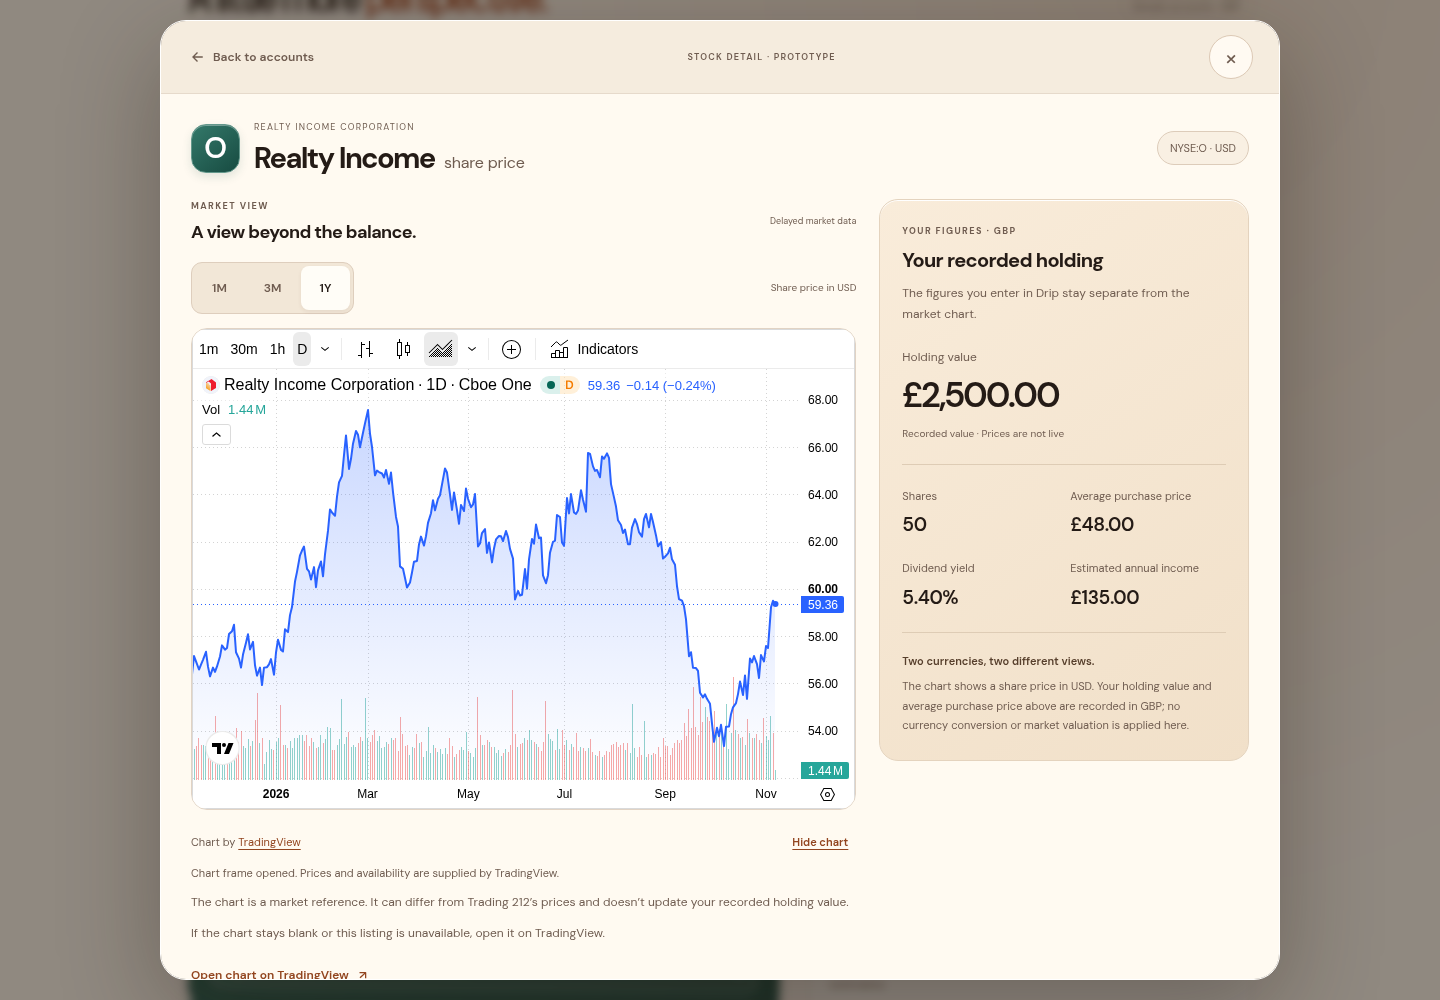
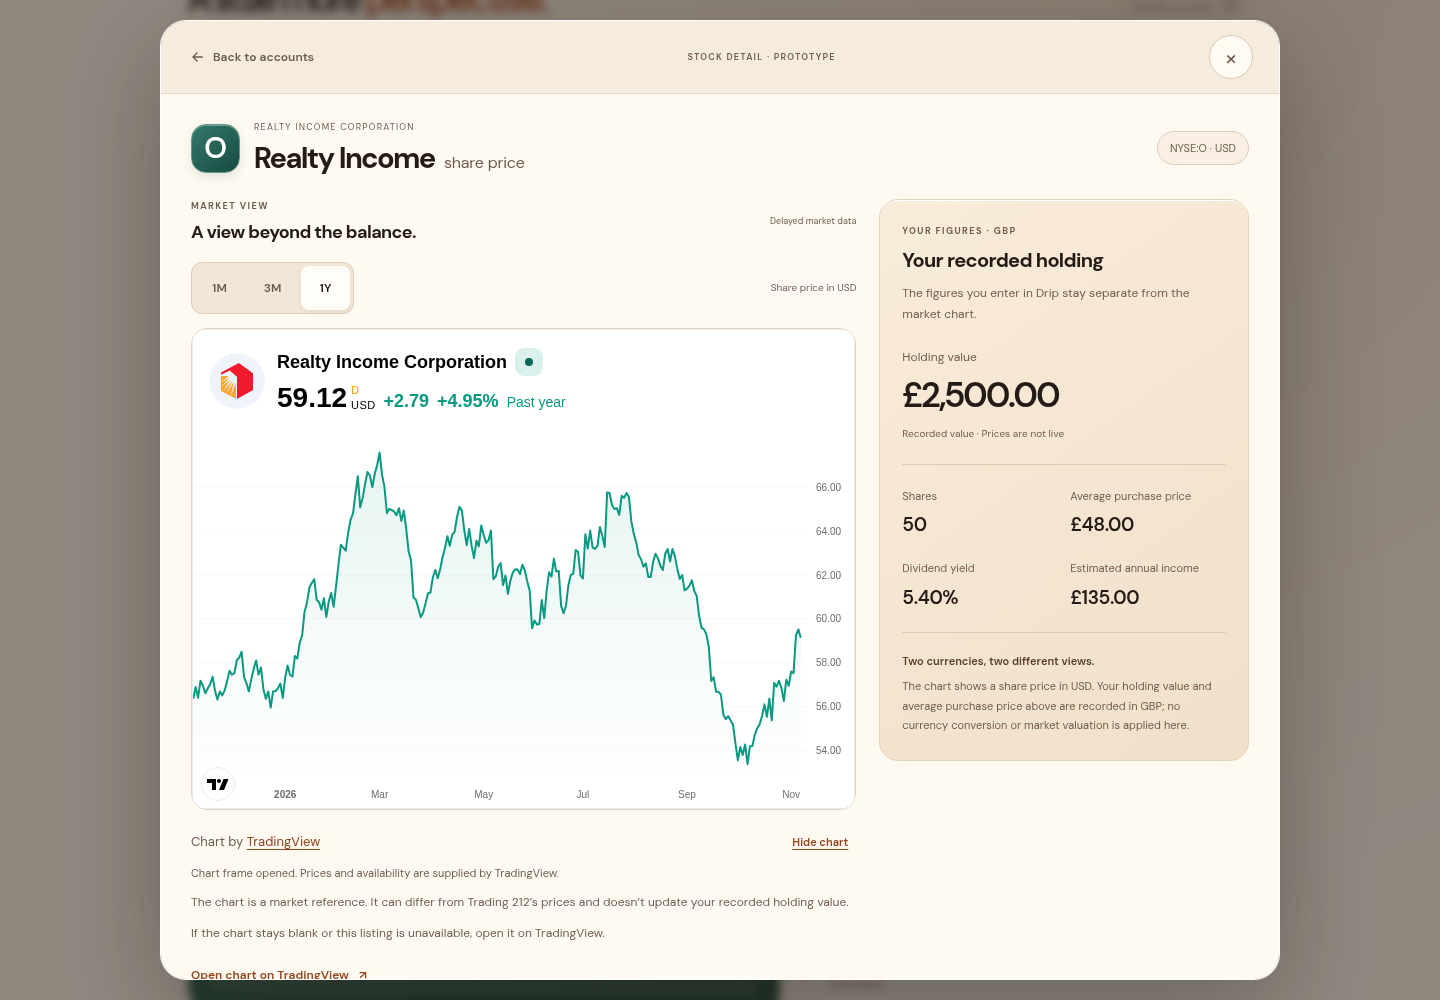
docs: record verified stock-widget repair and refreshed screenshots

Changed region(s): [[0.125, 0.341, 0.5938, 0.806], [0.125, 0.837, 0.2188, 0.868], [0.5625, 0.465, 0.5938, 0.496]]

diff --git a/docs/screenshots/first-impression/stock-prices.md b/docs/screenshots/first-impression/stock-prices.md
@@ -6,11 +6,11 @@ At `/prototype/welcome`, choose **Your accounts → Realty Income → Explore sh
 
 ## Choice and reasons
 
-**Use TradingView's free embedded chart for this shared Preview.** It needs no API key and is offered for website embedding. Keep its branding/attribution and link intact. This is a display integration, not a raw-price API or an automatic portfolio-valuation feed.
+**Use TradingView's free Symbol Overview for this shared Preview.** It provides a quote and price history without the advanced terminal's cross-tab coordination dependency. It needs no API key and is offered for website embedding. Keep its branding/attribution and link intact. This is a display integration, not a raw-price API or an automatic portfolio-valuation feed.
 
 | Option | Free allowance / capability | What it means for Drip | Primary source |
 | --- | --- | --- | --- |
-| TradingView widget | Free hosted interactive chart; available data depends on market. | Suitable for a chart sample without managing an API key. NYSE widget data is listed as delayed Cboe One data; do not promise Trading212 execution prices or a consolidated real-time feed. | [Chart](https://www.tradingview.com/widget-docs/widgets/charts/advanced-chart/), [NYSE data level](https://www.tradingview.com/widget-docs/markets/north-america/), [data FAQ](https://www.tradingview.com/widget-docs/faq/data/) |
+| TradingView Symbol Overview | Free hosted quote and interactive price history; available data depends on market. | Suitable for a chart sample without managing an API key. NYSE widget data is listed as delayed Cboe One data; do not promise Trading212 execution prices or a consolidated real-time feed. | [Stock overview](https://www.tradingview.com/widget-docs/widgets/charts/symbol-overview/), [NYSE data level](https://www.tradingview.com/widget-docs/markets/north-america/), [data FAQ](https://www.tradingview.com/widget-docs/faq/data/) |
 | Massive Stocks Basic | $0; 5 calls/minute; 2 years of end-of-day US history. | A possible owner-only personal API experiment. The vendor explicitly requires Business once another person sees it, including private testers/staging. Free Basic does not cover this shared Preview. | [Plans](https://massive.com/stocks), [display rights](https://massive.com/knowledge-base/article/which-plan-do-i-need-to-show-massive-data-in-my-app) |
 | Twelve Data Basic | $0; 8 API credits/minute, 800/day. | The pricing card specifies internal non-display use. An API response alone does not establish permission for a user-facing chart. | [Pricing](https://twelvedata.com/pricing), [usage](https://support.twelvedata.com/en/articles/5332349-commercial-and-personal-usage) |
 | Alpha Vantage | 25 requests/day; real-time/15-minute US data is premium. | Useful for a small personal experiment, with private-use restrictions. A free shared Drip display licence was not established. | [Limits/key](https://www.alphavantage.co/support/), [terms](https://www.alphavantage.co/terms_of_service/) |
@@ -21,7 +21,7 @@ These are the options verified for this decision, not an exhaustive claim about 
 
 - **Identity:** the instrument catalogue maps names to exchange-qualified symbols and quote currency. The sample uses Realty Income, NYSE:O, USD. Brookfield Infrastructure Partners is explicitly BIP rather than a different Brookfield listing. [Instrument/configuration boundary](../../../app/prototype/welcome/stock-chart.ts).
 - **Isolation:** a fixed cross-origin TradingView frame loads only on request. Remote provider code does not run in Drip's parent document. The frame gets a public symbol and chart settings; no gamertag, share count, average price, balance or recovery/session credential is serialized. TradingView necessarily receives the connection's IP and may observe the embedding context. [Provider privacy description](https://www.tradingview.com/widget-docs/faq/general/).
-- **Honest prices:** delay/source information remains visible. Frame navigation is not proof that price data loaded, is current or is available for a particular listing. Provider branding and availability messages remain intact.
+- **Honest prices:** delay/source information remains visible. The overview's price change refers to the selected market-history period, not the user's own investment return. Frame navigation is not proof that price data loaded, is current or is available for a particular listing. Provider branding and availability messages remain intact.
 - **Separate records:** the sample's 50 shares, £2,500 recorded value, £48 average price, 5.4% recorded yield and £135 estimated annual income stay in GBP. The chart is USD. The UI does not compare those prices without FX, infer a GBP gain or overwrite saved values. [Stock detail UI](../../../app/prototype/welcome/StockPricePreview.tsx).
 - **Embedding contract:** the frame URL follows the output of TradingView's current official iframe loader. It is not a separately documented stable data API; recheck it when changing the provider integration. [Official integration flow](https://www.tradingview.com/widget-docs/tutorials/iframe/build-page/widget-integration/).
 
@@ -29,7 +29,7 @@ A future custom API implementation should resolve the recorded instrument on the
 
 ## Screenshots
 
-Captured from the running optimized Drip prototype at source `032e4f4450c9fbd98b22f780fcdaae8b99c6c784`, 6 November 2026. Mobile 390×844 and desktop 1440×1000; the pre-load/recorded states were also checked at 320px. The loaded chart contains actual provider data at capture time, with TradingView branding intact; the recorded holding figures are synthetic. These are historical screenshots, not current quotes.
+Captured from the running optimized Drip prototype at source `7b9aa66356a0e7d62ecd33e0359fb9963789e082`. Loaded-chart captures use the actual hosted Git Preview, 6 November 2026. Mobile 390×844 and desktop 1440×1000; the pre-load/recorded states were also checked at 320px. The loaded chart contains actual provider data at capture time, with TradingView branding intact; the recorded holding figures are synthetic. These are historical screenshots, not current quotes.
 
 | State | Mobile | Desktop |
 | --- | --- | --- |
@@ -43,15 +43,19 @@ Captured from the running optimized Drip prototype at source `032e4f4450c9fbd98b
 
 | Claim | Expected / observed | Evidence and environment |
 | --- | --- | --- |
-| Correct instrument and configuration | Known exchange-qualified listings resolve correctly; invalid IDs/ranges fail closed; 1Y maps to 12 months. Only public chart settings cross the fixed HTTPS provider boundary. Passed. | [Seven isolated units](../../../tests/stock-chart.test.ts), source `032e4f4` |
+| Correct instrument and configuration | Known exchange-qualified listings resolve correctly; invalid IDs/ranges fail closed; 1Y maps to 12 months; daily bars are used throughout. Only public chart settings cross the fixed HTTPS provider boundary. Passed. | [Seven isolated units](../../../tests/stock-chart.test.ts), source `7b9aa66` |
 | Consent and holding separation | No iframe before Load; selected range applies; Hide/Back/Close remove the frame and restore focus. GBP holdings and income remain unchanged. Frame load does not claim current prices. Passed. | [Two real React component interactions](../../../tests/stock-chart.integration.test.tsx); component-state prototype, no primary datastore |
 | Core app journey | Accounts → Realty Income → price view → optional chart → return preserves recorded money/income and mobile layout. Passed. | [One Chromium journey](../../../e2e/stock-chart.e2e.spec.ts), optimized local app. Its frame transport is explicitly a deterministic fixture, not proof of prices. New suite is 7/2/1, exactly 70/20/10. |
-| Actual external data renders inside Drip | Both desktop and mobile loaded the real NYSE:O one-year plot, correct company/Cboe One/delay label and branding. Seven canvases each; no page errors, failed requests or horizontal overflow. Passed at capture time. | Real optimized Drip UI, matching compiled build fingerprint, Chromium 156 in a disposable container, inherited managed proxy and trusted runtime CA with TLS verification enabled. [Desktop](stock-market-desktop.png), [mobile](stock-market-mobile.png), [scrolled attribution](stock-market-mobile-scrolled.png) |
-| Existing app regressions | 783 unique cases passed; existing thresholds preserved, audit 0. The three inherited historical old-build PWA checks remain conditional. | [Full executed report](regression-report.md) from source `032e4f4`; Git checks must also pass on the published evidence commit. |
+| Actual external data renders inside Drip | Both desktop and mobile loaded the real NYSE:O one-year plot, correct company, USD/delay labels and branding. Seven canvases each; no page errors, failed requests or horizontal overflow. Passed at capture time. | Actual hosted Git Preview at `7b9aa66`, matching build fingerprint, Chromium 156 in a disposable container, managed proxy and normal TLS verification. Web Locks remained denied throughout. [Desktop](stock-market-desktop.png), [mobile](stock-market-mobile.png), [scrolled attribution](stock-market-mobile-scrolled.png) |
+| Existing app regressions | 783 unique cases passed; existing thresholds preserved, audit 0. The three inherited historical old-build PWA checks remain conditional. | [Full executed report](regression-report.md) from source `7b9aa66`; Git checks must also pass on the published evidence commit. |
 
 The first host-browser attempt failed certificate trust through the environment proxy. The isolated container used a fresh task-owned certificate store to trust the supplied runtime CA; no host trust store or TLS validation was weakened. The successful actual-data check supersedes that connectivity limitation.
 
 This verifies the Realty Income sample, not every catalogue symbol, independent price accuracy, execution prices, a hosted user login or a physical iPhone/PWA. Hosted deployment identity and current-head checks are recorded with the PR after Git Preview delivery. No raw-price API key, authenticated provider API or automatic valuation was configured.
+
+The advanced chart previously raised two provider-origin SecurityErrors in this same restricted third-party context. Symbol Overview passes the strict hosted exception gate without changing iframe permissions or browser privacy. The provider still emits resource-preload performance warnings; these are retained separately from exceptions. See the [repair evidence](stock-widget-repair.md).
+
+The actual range checks matched 1M → **Past month**, 3M → **Past quarter** (three months) and 1Y → **Past year** on both screen sizes. [Three-month view](stock-market-quarter-desktop.png).
 
 ## Next steps
 

diff --git a/docs/screenshots/first-impression/stock-widget-repair.md b/docs/screenshots/first-impression/stock-widget-repair.md
@@ -1,0 +1,31 @@
+# Stock widget: resolving the Preview blocker
+
+The advanced chart rendered prices but raised two uncaught provider exceptions when the browser denied third-party cross-tab locking. A rendered chart alone was insufficient evidence of a clean integration.
+
+**Use the official [Symbol Overview](https://www.tradingview.com/widget-docs/widgets/charts/symbol-overview/) widget.** It fits the task: quote, selected-period price change and history. It works with the same iframe sandbox, no-referrer policy and denied Web Locks. No API key, paid plan, extra browser permission or provider-code patch is needed.
+
+## Why this fix
+
+| Approach tested | Observed result |
+| --- | --- |
+| Advanced Chart, restricted HTTPS embedding | Real plot, two SecurityErrors |
+| Anonymous Advanced Chart | Same two exceptions |
+| Removing sandbox in a disposable diagnostic | Lock access still denied; not a fix |
+| Symbol Overview with original protections | Real quote/history, zero page exceptions |
+| Mini Chart | Also passed, but gave less clear period-performance context |
+
+The published repair changes the widget selection, its documented settings and attribution text size. Recorded shares, GBP value, cost, dividend yield and income remain separate from the USD market view.
+
+## Verification
+
+- New contract assertions failed against the old helper: four failing cases. All nine focused unit/component cases pass after the repair.
+- The complete regression run passed 783 unique cases with unchanged coverage thresholds. [Executed report](regression-report.md). The new stock feature remains 7 unit/2 integration/1 browser, or 70/20/10.
+- Actual hosted source `7b9aa66356a0e7d62ecd33e0359fb9963789e082` passed at 390×844 and 1440×1000: real plot, correct identity, zero page exceptions, zero failed requests and no horizontal overflow. HTTPS and denied Web Locks were explicitly checked.
+- Every range was tested against the provider's actual period: 1M **Past month**, 3M **Past quarter**, 1Y **Past year**. The early harness expected the literal phrase “Past 3 months”; observing the real three-month plot corrected that terminology assumption. Exception checks remained intact.
+- Provider preload warnings remain visible in diagnostics. Zero exceptions does not mean a warning-free console, independent quote accuracy or physical-iPhone validation.
+
+See the [actual hosted screenshots](stock-prices.md#screenshots). They contain real delayed market data and synthetic holding figures. Prices differ between capture times.
+
+## Next steps
+
+Use the same secure-context, restricted-storage smoke check whenever the embedded component changes. Keep the standalone chart fallback. Apply the agreed design to saved holdings after prototype feedback; automatic valuations still require a suitable raw-data API.

diff --git a/docs/screenshots/first-impression/README.md b/docs/screenshots/first-impression/README.md
@@ -33,7 +33,7 @@ Main comparisons use 390×844 mobile and 1440×1000 desktop. The prototype was a
 
 ## Verification
 
-The combined prototype passed the complete `npm run test:regression` on source `032e4f4`: **783 unique cases** (180 unit, 506 component/storage integration, 33 real Postgres/HTTP and 64 browser). Coverage: **97.54% lines, 92.34% branches, 94.01% functions, 94.55% statements**. Types, dependency boundaries, optimized build and audit passed; existing thresholds remain. See the [executed report](regression-report.md) and separate [real-provider verification](stock-prices.md#verification).
+The combined prototype passed the complete `npm run test:regression` on source `7b9aa66`: **783 unique cases** (180 unit, 506 component/storage integration, 33 real Postgres/HTTP and 64 browser). Coverage: **97.54% lines, 92.34% branches, 94.01% functions, 94.55% statements**. Types, dependency boundaries, optimized build and audit passed; existing thresholds remain. See the [executed report](regression-report.md) and separate [real-provider verification](stock-prices.md#verification).
 
 | Behaviour | Expected and observed | Where / evidence |
 | --- | --- | --- |

diff --git a/docs/screenshots/first-impression/regression-report.md b/docs/screenshots/first-impression/regression-report.md
@@ -1,4 +1,4 @@
-Source: `032e4f4450c9fbd98b22f780fcdaae8b99c6c784`, complete local `npm run test:regression`, 6 November 2026. Optimized app, real disposable Postgres/HTTP and Chromium. This report does not turn fixtures into hosted-provider evidence; see [stock verification](stock-prices.md#verification).
+Source: `7b9aa66356a0e7d62ecd33e0359fb9963789e082`, complete local `npm run test:regression`, 6 November 2026. Optimized app, real disposable Postgres/HTTP and Chromium. Feature rows can reuse cases; only the layer totals represent unique cases. See the separate [real-provider verification](stock-prices.md#verification).
 
 # Drip regression report
 
